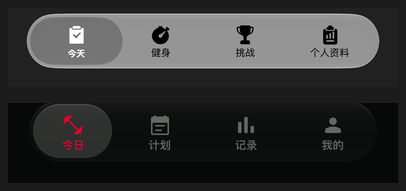
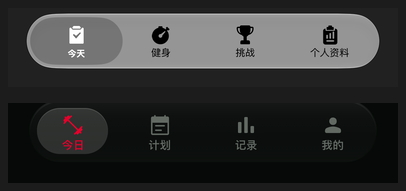
Dock 胶囊缩小：71x46、四边间距 8；v1.4

Changed region(s): [[0.0591, 0.5236, 0.2956, 0.8377]]

diff --git a/index.html b/index.html
@@ -366,9 +366,9 @@ h1 .en{font-size:14px;font-weight:600;letter-spacing:.16em;color:var(--muted2)}
 }
 /* 选中块：胶囊（圆角 = 高度一半），比 Dock 高度扁一档 —— 材质与颜色照热量账本 */
 .pill{
-  position:absolute;left:3px;top:3px;
-  height:54px;
-  border-radius:27px;
+  position:absolute;left:7px;top:7px;
+  height:46px;
+  border-radius:23px;
   transition:left .62s cubic-bezier(.33,1.06,.32,1),width .42s cubic-bezier(.33,1.06,.32,1);
   pointer-events:none;
 }
@@ -388,7 +388,7 @@ h1 .en{font-size:14px;font-weight:600;letter-spacing:.16em;color:var(--muted2)}
   flex:1;height:100%;border:0;background:transparent;cursor:pointer;
   display:flex;flex-direction:column;align-items:center;justify-content:center;gap:2px;
   color:var(--muted2);font-family:inherit;
-  border-radius:16px;padding:0;height:54px;
+  border-radius:16px;padding:0;height:46px;
   transition:background .24s,color .3s;
 }
 .tab .ico{width:24px;height:24px;fill:currentColor;display:block}
@@ -692,7 +692,7 @@ h1 .en{font-size:14px;font-weight:600;letter-spacing:.16em;color:var(--muted2)}
 
     <div class="statusbg" aria-hidden="true"></div>
     <div class="topbar">
-      <div class="brand">练<span>账</span><i class="btag">v1.3</i></div>
+      <div class="brand">练<span>账</span><i class="btag">v1.4</i></div>
       <div class="topactions">
         <button class="topbtn topicon" id="reloadTop" aria-label="强制更新" title="强制更新">
           <svg viewBox="0 -960 960 960" aria-hidden="true"><path d="M480-160q-134 0-227-93t-93-227q0-134 93-227t227-93q69 0 132 28.5T720-690v-70q0-17 11.5-28.5T760-800q17 0 28.5 11.5T800-760v200q0 17-11.5 28.5T760-520H560q-17 0-28.5-11.5T520-560q0-17 11.5-28.5T560-600h128q-32-56-87.5-88T480-720q-100 0-170 70t-70 170q0 100 70 170t170 70q68 0 124.5-34.5T692-367q8-14 22.5-19.5t29.5-.5q16 5 23 21t-1 30q-41 80-117 128t-169 48Z"/></svg>
@@ -1019,7 +1019,7 @@ h1 .en{font-size:14px;font-weight:600;letter-spacing:.16em;color:var(--muted2)}
     <!-- 设置 -->
     <div class="sheet" id="setSheet">
       <div class="grab"></div>
-      <div class="sh-hd"><h2>设置</h2><span class="vtag">v1.3</span></div>
+      <div class="sh-hd"><h2>设置</h2><span class="vtag">v1.4</span></div>
       <div class="setbody">
         <div class="setlabel">功能</div>
         <div class="setrows">
@@ -1035,7 +1035,7 @@ h1 .en{font-size:14px;font-weight:600;letter-spacing:.16em;color:var(--muted2)}
           <div class="srow" data-ic="bolt"><span class="ico"></span><span class="lbl">与热量账本同步</span><span class="sw"></span></div>
           <div class="srow" data-ic="monitor_heart"><span class="ico"></span><span class="lbl">Apple 健康</span><span class="sw"></span></div>
           <div class="srow" data-ic="assignment"><span class="ico"></span><span class="lbl">训练提醒</span><span class="sw"></span></div>
-          <button class="srow" id="openRel" data-ic="checklist"><span class="ico"></span><span class="lbl">更新记录</span><span class="val">v1.3</span></button>
+          <button class="srow" id="openRel" data-ic="checklist"><span class="ico"></span><span class="lbl">更新记录</span><span class="val">v1.4</span></button>
         </div>
       </div>
     </div>
@@ -1336,7 +1336,7 @@ h1 .en{font-size:14px;font-weight:600;letter-spacing:.16em;color:var(--muted2)}
     var lens = $('#pill');
     var d = $('.dock').getBoundingClientRect();
     var r = t.getBoundingClientRect();
-    var g = 4, b = $('.dock').clientLeft;
+    var g = 8, b = $('.dock').clientLeft;
     lens.style.width = (r.width - g * 2) + 'px';
     lens.style.left = (r.left - d.left - b + g - b) + 'px';
   }
@@ -1610,7 +1610,7 @@ h1 .en{font-size:14px;font-weight:600;letter-spacing:.16em;color:var(--muted2)}
   }
 
   /* ---------- 启动版本比对（同热量账本） ---------- */
-  var APP_VERSION = 'v1.3';
+  var APP_VERSION = 'v1.4';
   fetch('./version.txt?t=' + Date.now(), { cache: 'no-store' })
     .then(function(r){ return r.ok ? r.text() : ''; })
     .then(function(v){
